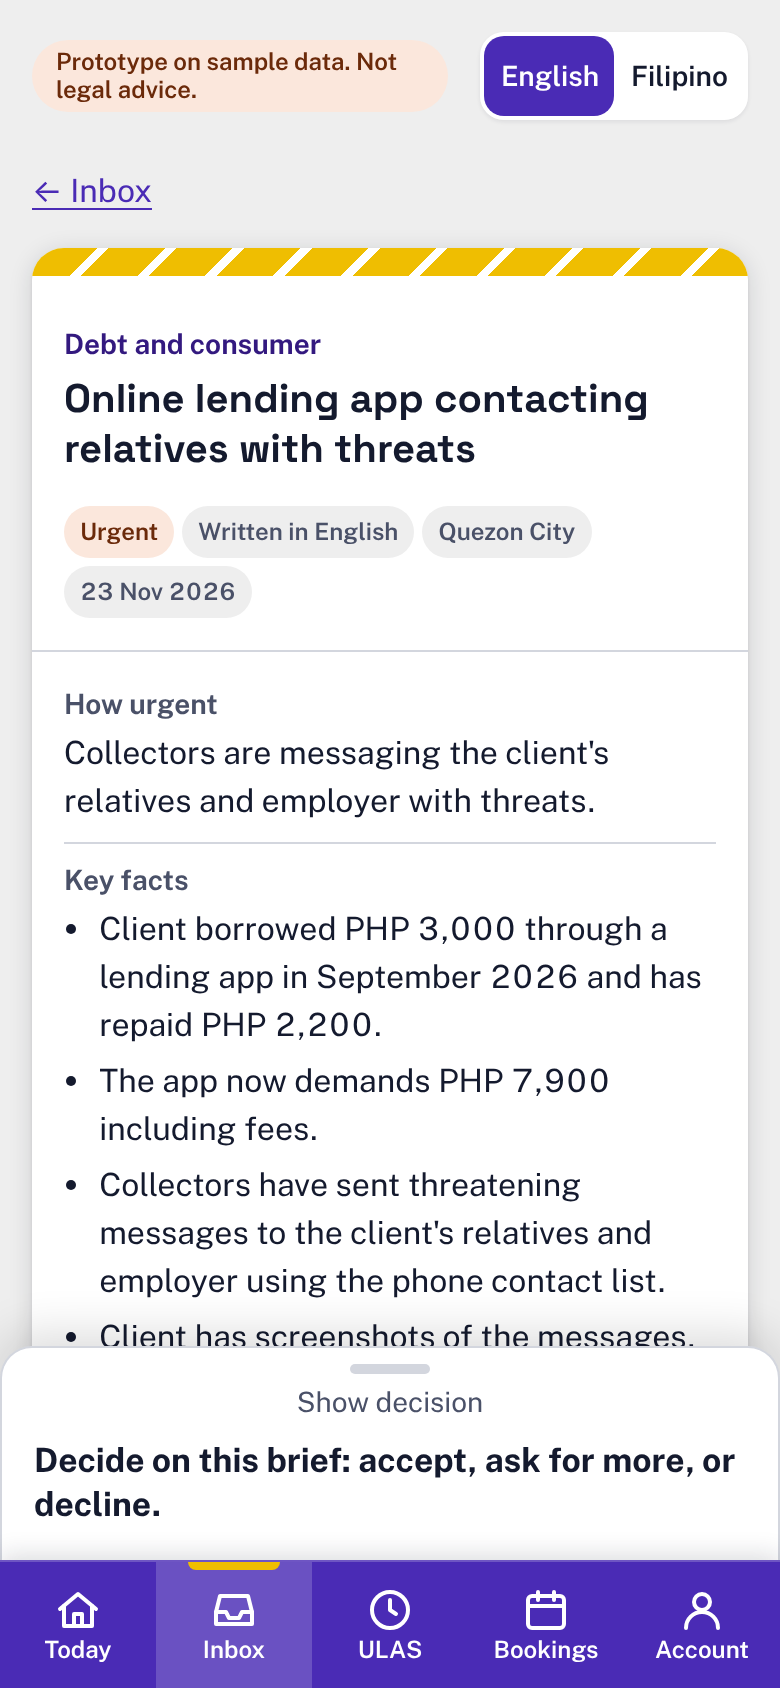
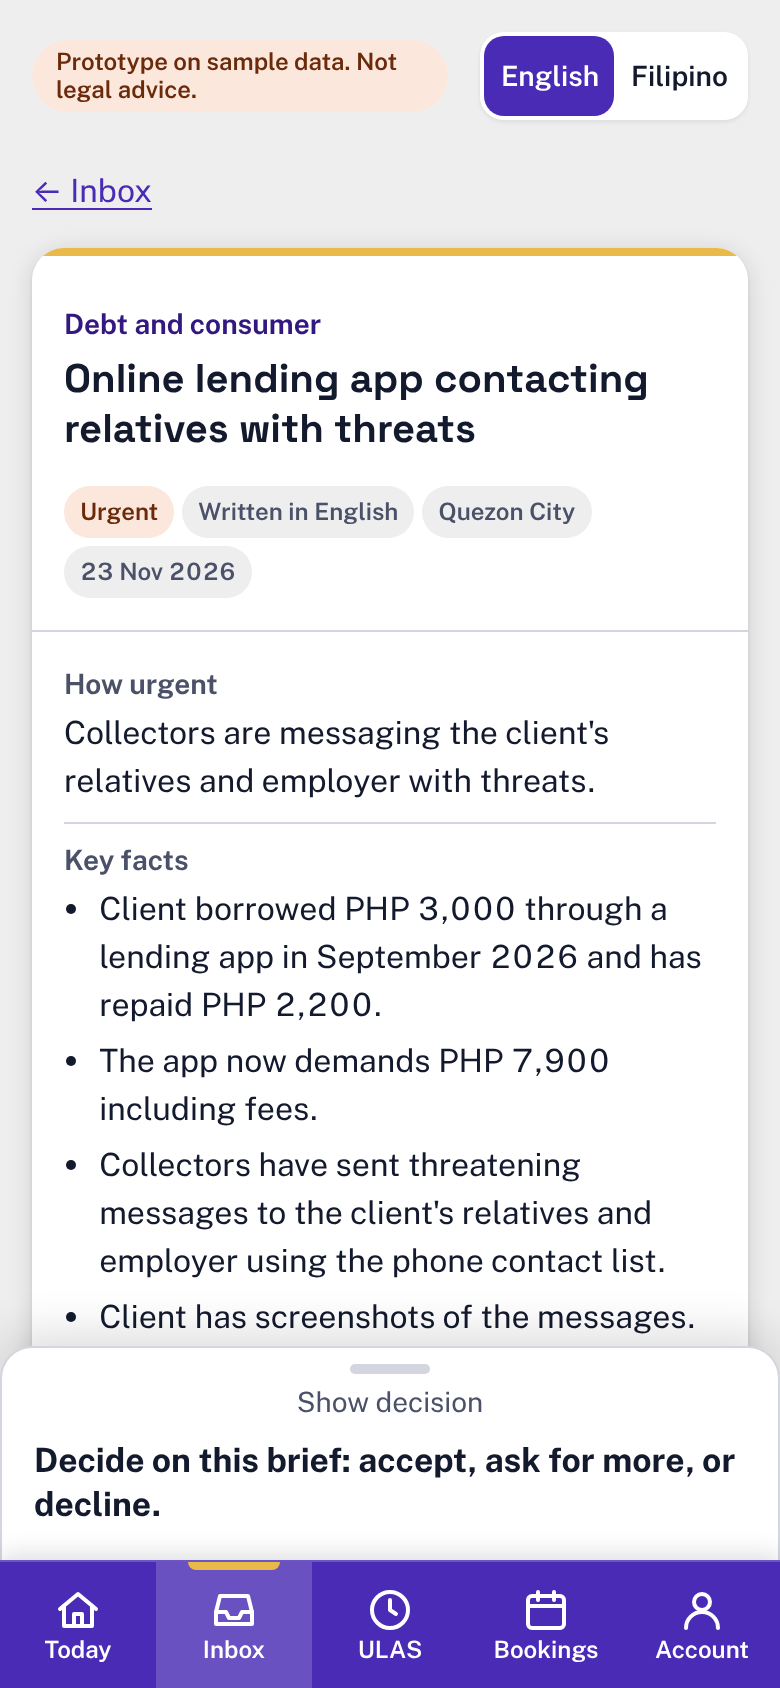
Replace the stripe band with a soft-gold accent bar
Third colour is soft gold #E9B949, solid accents only (D32). The 14 px
diagonal band on answer cards, briefs and the map answer card becomes a
4 px solid bar; gold also marks the ULAS personal minimum, urgent briefs,
the home stats rule, the pilot pill and tile hover. Ink on gold 9.5:1.

Claude-Session: https://claude.ai/code/session_016edfBFbxvkaY57cMuCD13E

Changed region(s): [[0.0615, 0.4005, 0.8923, 0.8009], [0.0308, 0.1232, 0.9538, 0.3697], [0.2462, 0.9242, 0.3385, 0.955]]

diff --git a/app/(client)/find/map.module.css b/app/(client)/find/map.module.css
@@ -6,11 +6,11 @@
 .col { position: relative; z-index: 6; flex: none; width: var(--colwidth); height: 100%; display: flex; flex-direction: column; background: var(--surface); border-right: 1px solid var(--line); overflow-y: auto; overscroll-behavior: contain; }
 
 /* answer card: band, eyebrow, question, location row, stats, honest line, action */
-.ac { position: relative; flex: none; padding: calc(14px + var(--s-4)) var(--gx) var(--s-3); }
-.ac::before { content: ""; position: absolute; top: 0; left: 0; right: 0; height: 14px; background: repeating-linear-gradient(-45deg, var(--act) 0 20px, #fff 20px 24px); pointer-events: none; }
+.ac { position: relative; flex: none; padding: calc(4px + var(--s-4)) var(--gx) var(--s-3); }
+.ac::before { content: ""; position: absolute; top: 0; left: 0; right: 0; height: 4px; background: var(--act); pointer-events: none; }
 .eyebrow { display: flex; align-items: baseline; justify-content: space-between; gap: var(--s-2); margin: 0 0 var(--s-2); }
 .place { font: 700 var(--fs-md)/1.25 var(--font-display); color: var(--ink); min-width: 0; }
-.pilot { flex: none; padding: 2px 10px; border-radius: var(--radius-pill); background: var(--brand-wash); color: var(--brand-dark); font: 600 var(--fs-xs) var(--font-text); }
+.pilot { flex: none; padding: 2px 10px; border-radius: var(--radius-pill); background: var(--act-tint); color: var(--ink); font: 600 var(--fs-xs) var(--font-text); }
 .q { margin: 0 0 var(--s-3); font: 700 1.25rem/1.25 var(--font-display); color: var(--ink); display: -webkit-box; -webkit-line-clamp: 3; -webkit-box-orient: vertical; overflow: hidden; }
 .locRow { display: flex; flex-wrap: wrap; gap: var(--s-2); align-items: center; margin-bottom: var(--s-3); }
 .areaSel { flex: 1; min-width: 150px; width: auto; }
@@ -102,7 +102,7 @@
   .island { top: var(--s-2); padding: 0 calc(var(--s-2) + 140px) 0 var(--s-2); justify-content: flex-start; }
   .optBtn { top: var(--s-2); right: var(--s-2); padding: 0 var(--s-2); }
   .col { height: auto; border-right: 0; }
-  .ac { padding-top: calc(14px + var(--s-3)); }
+  .ac { padding-top: calc(4px + var(--s-3)); }
   .ac::before { top: 0; }
   .q { font-size: 1.125rem; margin-bottom: var(--s-2); }
   .locRow { margin-bottom: var(--s-2); }

diff --git a/app/app/today.module.css b/app/app/today.module.css
@@ -5,7 +5,7 @@
   padding: var(--card-pad); border-radius: var(--radius); background: var(--surface); box-shadow: var(--shadow-soft);
   transition: transform var(--spring-spatial-ms) var(--spring-spatial), box-shadow var(--effects-ms) var(--ease-effects);
 }
-@media (hover: hover) { .tile:has(.cover:hover) { transform: translateY(-3px); box-shadow: 0 10px 28px rgba(20, 26, 46, .14); } }
+@media (hover: hover) { .tile:has(.cover:hover) { transform: translateY(-3px); box-shadow: inset 0 3px 0 var(--act), 0 10px 28px rgba(20, 26, 46, .14); } }
 .tile:has(.cover:active) { transform: scale(.985); }
 .tile:has(.cover:focus-visible) { outline: 3px solid var(--brand); outline-offset: 2px; }
 .ulas { grid-column: span 4; grid-row: span 2; }
@@ -29,7 +29,7 @@
 .lt { display: flex; flex-direction: column; min-width: 0; font-weight: 600; }
 .ls { font-weight: 400; font-size: var(--fs-xs); color: var(--muted); }
 .dot, .dotUrgent { flex: none; width: 10px; height: 10px; margin-top: 4px; border-radius: 50%; background: var(--brand); }
-.dotUrgent { background: var(--warn-ink); }
+.dotUrgent { background: var(--act); box-shadow: 0 0 0 1px rgba(20, 26, 46, .45); }
 .tag, .tagPb { align-self: flex-start; padding: 2px 10px; border-radius: var(--radius-pill); font: 600 var(--fs-xs) var(--font-text); background: var(--bg); color: var(--muted); }
 .tagPb { background: var(--ok-bg); color: var(--ok-ink); }
 .foot { display: flex; align-items: center; gap: var(--s-1); margin: var(--gap) 0 0; font-size: var(--fs-xs); color: var(--muted); }

diff --git a/components/ui.module.css b/components/ui.module.css
@@ -5,8 +5,8 @@
 .honest { margin: var(--s-3) 0; padding: var(--s-3); border-radius: var(--radius-sm); background: var(--brand-wash); border: 1px solid var(--brand-tint); font-size: var(--fs-sm); }
 .honest > :first-child { margin-top: 0; }
 .honest > :last-child { margin-bottom: 0; }
-.answerCard { position: relative; overflow: hidden; margin: 0 0 var(--gap); padding: calc(14px + var(--card-pad)) var(--card-pad) var(--card-pad); border-radius: var(--radius); background: var(--surface); box-shadow: var(--shadow-soft); }
-.answerCard::before { content: ""; position: absolute; top: 0; left: 0; right: 0; height: 14px; background: repeating-linear-gradient(-45deg, var(--act) 0 20px, #fff 20px 24px); }
+.answerCard { position: relative; overflow: hidden; margin: 0 0 var(--gap); padding: calc(4px + var(--card-pad)) var(--card-pad) var(--card-pad); border-radius: var(--radius); background: var(--surface); box-shadow: var(--shadow-soft); }
+.answerCard::before { content: ""; position: absolute; top: 0; left: 0; right: 0; height: 4px; background: var(--act); }
 .answerCard > :last-child { margin-bottom: 0; }
 .answer { margin: 0; font: 700 var(--fs-lg)/1.25 var(--font-display); letter-spacing: -0.01em; text-wrap: balance; }
 .kicker { margin: 0 0 var(--s-2); font-size: var(--fs-sm); color: var(--muted); font-weight: 600; }

diff --git a/app/(client)/home.module.css b/app/(client)/home.module.css
@@ -15,7 +15,8 @@
 .def { max-width: 58ch; margin: 0 0 var(--s-4); font-size: var(--fs-sm); color: var(--muted); }
 .cta { display: flex; flex-wrap: wrap; align-items: center; gap: var(--s-2) var(--s-4); }
 .nearLink { display: inline-flex; align-items: center; min-height: var(--touch); font-weight: 600; color: var(--brand); }
-.strip { display: grid; grid-template-columns: repeat(3, minmax(0, 1fr)); gap: var(--s-4); margin: var(--s-5) 0 0; padding-top: var(--s-4); border-top: 1px solid var(--line); }
+.strip { position: relative; display: grid; grid-template-columns: repeat(3, minmax(0, 1fr)); gap: var(--s-4); margin: var(--s-5) 0 0; padding-top: var(--s-4); border-top: 1px solid var(--line); }
+.strip::before { content: ""; position: absolute; top: -2px; left: 0; width: 64px; height: 3px; border-radius: 2px; background: var(--act); }
 .strip div { display: flex; flex-direction: column; }
 .strip dt { order: 2; font-size: var(--fs-sm); color: var(--muted); }
 .strip dd { order: 1; margin: 0; font: 700 var(--fs-xl)/1 var(--font-display); color: var(--ink); font-variant-numeric: tabular-nums; letter-spacing: -.01em; }

diff --git a/design/tokens.css b/design/tokens.css
@@ -12,8 +12,10 @@
   --brand-wash: #f5f3fc;
   --on-brand: #ffffff;
   /* Act here: LAMBAT gold. Ink text on it (9.7:1). */
-  --act: #efbe01;
-  --act-dark: #c99f00;
+  /* Third colour (D32): soft gold, solid accents only, never stripes, never small text. */
+  --act: #e9b949;
+  --act-dark: #c9962a;
+  --act-tint: #fbf1d9;
   --on-act: #141a2e;
   --gold: var(--act);
 
@@ -98,8 +100,9 @@
     --brand-tint: #2a2148;
     --brand-wash: #1e1834;
     --on-brand: #120d24;
-    --act: #efbe01;
-    --act-dark: #ffd43b;
+    --act: #e9b949;
+    --act-dark: #f2cc6b;
+    --act-tint: #3a2f14;
     --on-act: #141a2e;
     --info-bg: #2a2148;  --info-ink: #d4c8fa;
     --warn-bg: #3a1f12;  --warn-ink: #f4c6ac;
@@ -118,8 +121,9 @@
   --brand-tint: #2a2148;
   --brand-wash: #1e1834;
   --on-brand: #120d24;
-  --act: #efbe01;
-  --act-dark: #ffd43b;
+  --act: #e9b949;
+  --act-dark: #f2cc6b;
+  --act-tint: #3a2f14;
   --on-act: #141a2e;
   --info-bg: #2a2148;  --info-ink: #d4c8fa;
   --warn-bg: #3a1f12;  --warn-ink: #f4c6ac;

diff --git a/.claude/skills/gis-ui-kit/templates/answer-card.css b/.claude/skills/gis-ui-kit/templates/answer-card.css
@@ -1,6 +1,6 @@
 /* Answer card (LAMBAT map.css .col-top/.q/.stats). Put it first in the column. */
-.ac{position:relative;overflow:hidden;padding:calc(14px + var(--s3)) var(--s3) var(--s2);background:var(--card)}
-.ac::before{content:"";position:absolute;top:0;left:0;right:0;height:14px;background:repeating-linear-gradient(-45deg,var(--gold) 0 20px,#fff 20px 24px)}
+.ac{position:relative;overflow:hidden;padding:calc(4px + var(--s3)) var(--s3) var(--s2);background:var(--card)}
+.ac::before{content:"";position:absolute;top:0;left:0;right:0;height:4px;background:var(--gold)}
 .ac-eyebrow{display:flex;align-items:baseline;justify-content:space-between;gap:var(--s1);margin:0 0 var(--s2);font-size:var(--t-sm);color:var(--muted)}
 .ac-place{font:700 var(--t-md)/1.25 var(--f-display);color:var(--ink)}
 .ac-q{font:700 1.25rem/1.25 var(--f-display);margin:0 0 var(--s2);display:-webkit-box;-webkit-line-clamp:3;-webkit-box-orient:vertical;overflow:hidden}

diff --git a/components/UlasMeter.module.css b/components/UlasMeter.module.css
@@ -3,5 +3,5 @@
 .of { font-size: var(--fs-md); font-weight: 500; color: var(--muted); letter-spacing: 0; }
 .track { position: relative; height: 14px; border-radius: var(--radius-pill); background: var(--line); }
 .bar { height: 100%; border-radius: inherit; background: var(--brand); transition: width var(--spring-spatial-slow-ms) var(--spring-spatial-slow); }
-.marker { position: absolute; top: -6px; bottom: -6px; width: 2px; margin-left: -1px; background: var(--ink); }
+.marker { position: absolute; top: -6px; bottom: -6px; width: 4px; margin-left: -2px; border-radius: 2px; background: var(--act); box-shadow: 0 0 0 1px rgba(20, 26, 46, .45); }
 .markerLabel { position: absolute; top: 100%; left: 50%; transform: translateX(-50%); margin-top: 4px; white-space: nowrap; font-size: var(--fs-xs); color: var(--muted); }

diff --git a/components/BriefCard.module.css b/components/BriefCard.module.css
@@ -1,6 +1,6 @@
 .card { container-type: inline-size; position: relative; overflow: hidden; background: var(--surface); border-radius: var(--radius); box-shadow: var(--shadow); }
-/* Signature motif (LAMBAT hazard band): 14 px gold/white diagonal across the top of the brief */
-.band { height: 14px; background: repeating-linear-gradient(-45deg, var(--act) 0 20px, #fff 20px 24px); }
+/* Accent bar (D32): 4 px solid soft gold across the top of the brief */
+.band { height: 4px; background: var(--act); }
 .head { padding: var(--s-4) var(--s-4) var(--s-3); border-bottom: 1px solid var(--line); }
 .kind { margin: 0 0 var(--s-1); font-size: var(--fs-sm); font-weight: 650; color: var(--brand-dark); }
 .title { margin: 0 0 var(--s-3); font: 700 1.25rem/1.25 var(--font-display); }

diff --git a/.claude/skills/gis-ui-kit/docs/components.md b/.claude/skills/gis-ui-kit/docs/components.md
@@ -5,7 +5,7 @@
 | **Shell rail** | base.css `.nav`, app.js `mountNav` | Brand bg, white text; 48 px items (icon + label), 12 px radius; `.nav-ind` (white 18% + 4 px gold tick) slides via transform; collapse 232↔64 px saved in localStorage; wordmark letters weave in on open | Re-measure indicator on resize and when a scrollbar appears (ResizeObserver) |
 | **Tab bar** | base.css `@media (max-width:767px)` | Same nav, fixed bottom, 64 px, icon above short label, gold tick on top edge | Pad the page bottom by 64 px |
 | **Home** | home.css, home.js | Brand line, eyebrow tagline, **h1 = the answer in numbers**, CTA pill + text link, stats strip (`dd` display face above `dt`), preview card with hover lift, numbered steps, composite-story quote; background pattern + waves under a mask at ~8% | Skeleton the h1 and stats; never invent a number |
-| **Answer card** | map.css `.col-top`, `.q`, `.stats`, `.st-*` | 14 px band (`repeating-linear-gradient(-45deg, gold 0 20px, #fff 20px 24px)`), eyebrow, question clamp 3 lines, stat blocks (1.75 rem display number, label, sub), honest line, one blue action line, footer link | Peek height on phones = this card's height |
+| **Answer card** | map.css `.col-top`, `.q`, `.stats`, `.st-*` | Accent edge: LAMBAT uses a 14 px gold/white hazard band; APPogado swapped it for a 4 px solid bar (projects choose their own), eyebrow, question clamp 3 lines, stat blocks (1.75 rem display number, label, sub), honest line, one blue action line, footer link | Peek height on phones = this card's height |
 | **Status island** | map.css `.island`, `.isl*` | Navy pill top-centre of free map area; springs width/height (`.5s cubic-bezier(.34,1.45,.5,1)`); old content blurs out, new fades in; gold badge; ring for loading | `aria-hidden` + separate live region; drop extra words under 900 px |
 | **`?` term** | map.css `.tip-q`, `.tipbox` | Term is the button: dotted underline + small solid glyph; glass box with arrow; native popover | Never covers its sentence |
 | **Segmented thumb** | map.css `.pseg`, `.mseg` | Radios over labels, one `.thumb` translated by `--i` | Focus ring on the label (`:has(input:focus-visible)`) |

diff --git a/docs/decisions.md b/docs/decisions.md
@@ -35,6 +35,7 @@ Newest last. Each entry: date, decision, reason, what would reverse it.
 | D29 | 2026-11-25 | `/find` is a **map-first page** (amends D23): full-bleed map, 380 px column with the answer card, office rows (gold numbers in distance order), legend; status island; More options drawer; phones get the column as a bottom sheet whose peek is the answer card. Leaflet now loads with this page. Lawyers are listed inside their office row. | gis-ui-kit rule: a map inside a document page is not a map page. | User review of this phase |
 | D30 | 2026-11-26 | **Direction D, "expressive map-first", one look with two densities.** Client pages spacious; lawyer pages `data-density="dense"`. New lawyer home `/app/` is a bento grid (ULAS, new briefs, next appointment, partner clinics, firm, plan). Firm leaves the tab bar (5 items max) and is reached from Today and ULAS. | User chose D after seeing references (Stripe, Vercel, Harvey, GOV.UK, SGDS, Material 3, bento examples). | User review of PR #6 |
 | D31 | 2026-11-26 | Motion tokens: damped-spring curves as CSS `linear()` (spatial fast/default/slow) plus effects and exit eases; no animation library. Phone sheets snap peek / half / full (`components/SnapSheet.tsx`), flick > 0.4 px/ms moves one snap; map controls ride above the sheet. Scroll reveals use native `animation-timeline: view()`. One hero motion per screen; all instant under reduced motion. | Research: Material 3 Expressive springs, Apple Maps / Material bottom sheets, Stripe/Linear restraint. | – |
+| D32 | 2026-11-26 | Third colour: soft gold `#E9B949` (replaces LAMBAT `#EFBE01`), solid accents only. The 14 px diagonal band becomes a 4 px solid accent bar on answer cards, briefs and the map answer card; gold tint pills and markers add presence. | User: remove the stripe band; purple and white felt lacking. | Owner brand review (M10) |
 
 ## Open items
 

diff --git a/CLAUDE.md b/CLAUDE.md
@@ -76,7 +76,7 @@ Before calling work done: `npm run lint && npm test && npm run check:compliance 
 **Layout and behaviour**
 - Answer first: every lawyer screen opens with the one line that answers its question
   ("22 of 60 hours. 15-hour minimum met. 412 days left.").
-- Purple `--brand` carries structure (rail, links, primary pill buttons, markers). Gold `--act` has one job, "act here": nearest-office numbers, the nav tick, the 14 px band. Gold is never small text.
+- Purple `--brand` carries structure (rail, links, primary pill buttons, markers). Soft gold `--act` (#E9B949) is the third colour: "act here" and highlights (nearest-office numbers, the nav tick, the 4 px accent bar on answer cards, pills on `--act-tint`). Solid only, never stripes, never small text (D32).
 - Grey page, white cards with one shadow, display face on every number (gis-ui-kit).
 - Never disable a button until a form is valid: `aria-disabled`, validate on click, explain inline, move focus (D26).
 - Nothing covers the thing it explains (popovers, tour cards).
